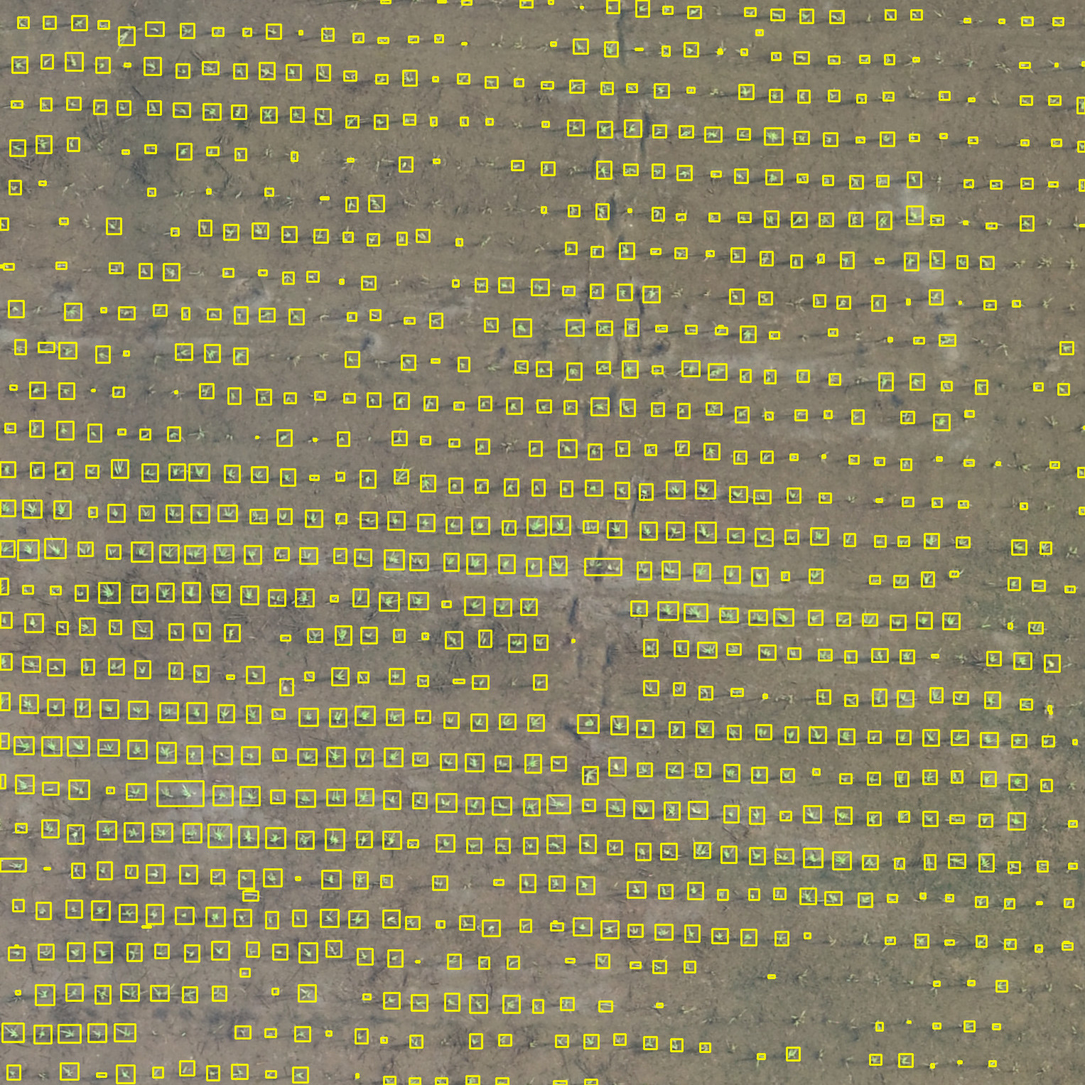
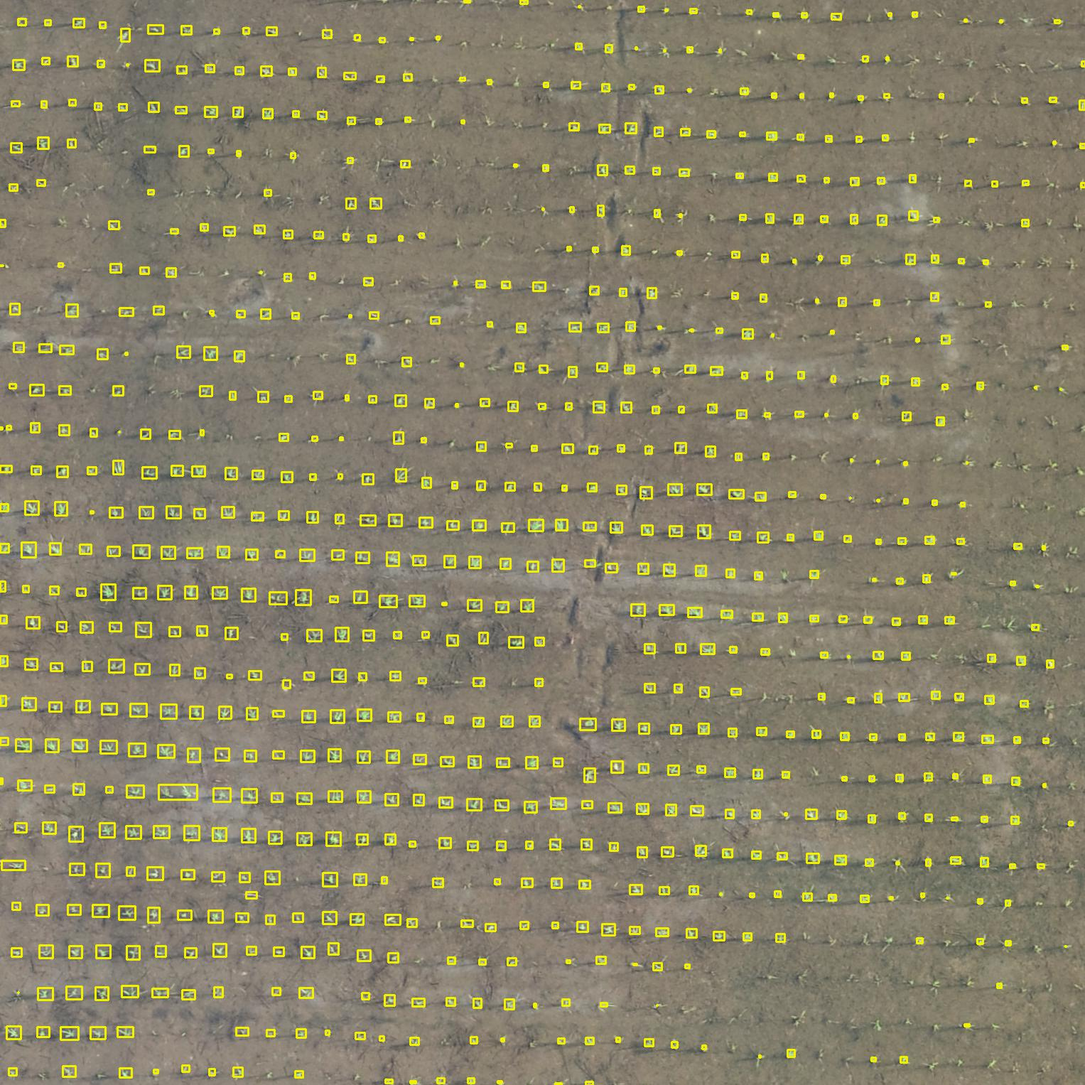
update detection result

diff --git a/README.md b/README.md
@@ -56,7 +56,7 @@ This dataset is used for patch-based object-detection scenario.
 <img src="https://raw.githubusercontent.com/aipal-nchu/RiceShootCounting/main/images/DemoClip.png" width="768">
 
 
-| Image Number | Original Image | Prediction Image | Ground Truth Image|
+| Image Number | Raw Image | Prediction Image | Ground Truth Image|
 |:-:|:-:|:-:|:-:|
 |1|<img src="https://raw.githubusercontent.com/aipal-nchu/RiceShootCounting/main/images/1.jpg" width="300">|<img src="https://raw.githubusercontent.com/aipal-nchu/RiceShootCounting/main/images/1_bbox.jpg" width="300">|<img src="https://raw.githubusercontent.com/aipal-nchu/RiceShootCounting/main/images/1_GT.jpg" width="300">|
 |2|<img src="https://raw.githubusercontent.com/aipal-nchu/RiceShootCounting/main/images/2.jpg" width="300">|<img src="https://raw.githubusercontent.com/aipal-nchu/RiceShootCounting/main/images/2_bbox.jpg" width="300">|<img src="https://raw.githubusercontent.com/aipal-nchu/RiceShootCounting/main/images/2_GT.jpg" width="300">|
@@ -70,6 +70,6 @@ This dataset is used for patch-based object-detection scenario.
 **Comparison of Detection Result and Ground Truth**
 | Image Number | 1 | 2 | 3 | 4 | 5 | 6 | 7 | 8 |
 |:-:|:-:|:-:|:-:|:-:|:-:|:-:|:-:|:-:|
-|**Prediction**  |814 |1009|1038|913 |959 |1023|1011|1015|
+|**Prediction**  |735 |1006|1037|809 |1004|1050|1017|1032|
 |**Ground truth**|898 |1000|1019|964 |971 |1002|1033|1005|
-|**Error (%)**   |9.35|0.90|1.86|5.29|1.24|2.10|2.13|1.00|
+|**Error (%)**   |**18.15**|0.60|1.77|**16.08**|3.40|4.79|1.55|2.69|
